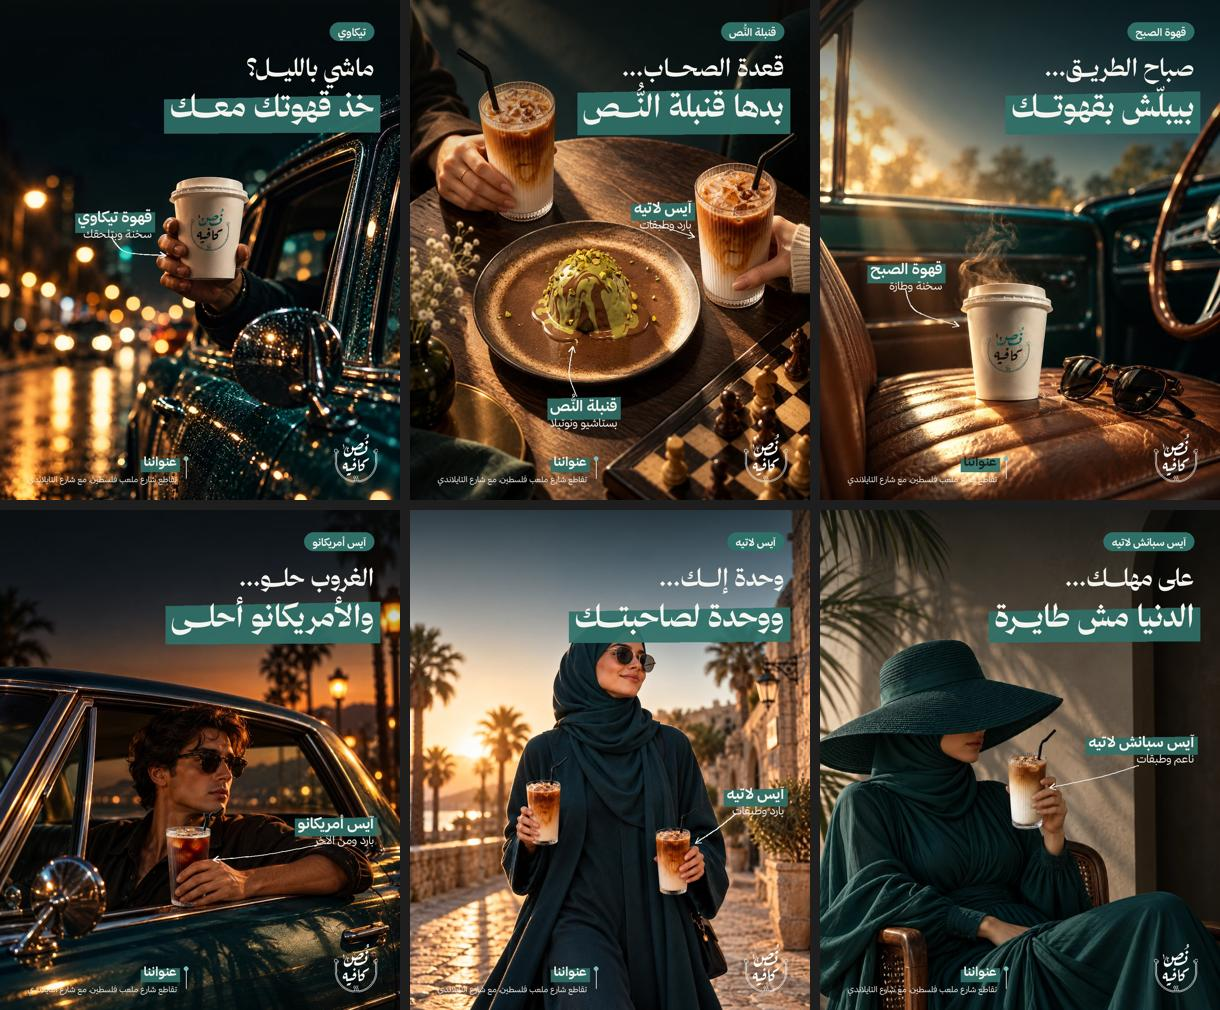
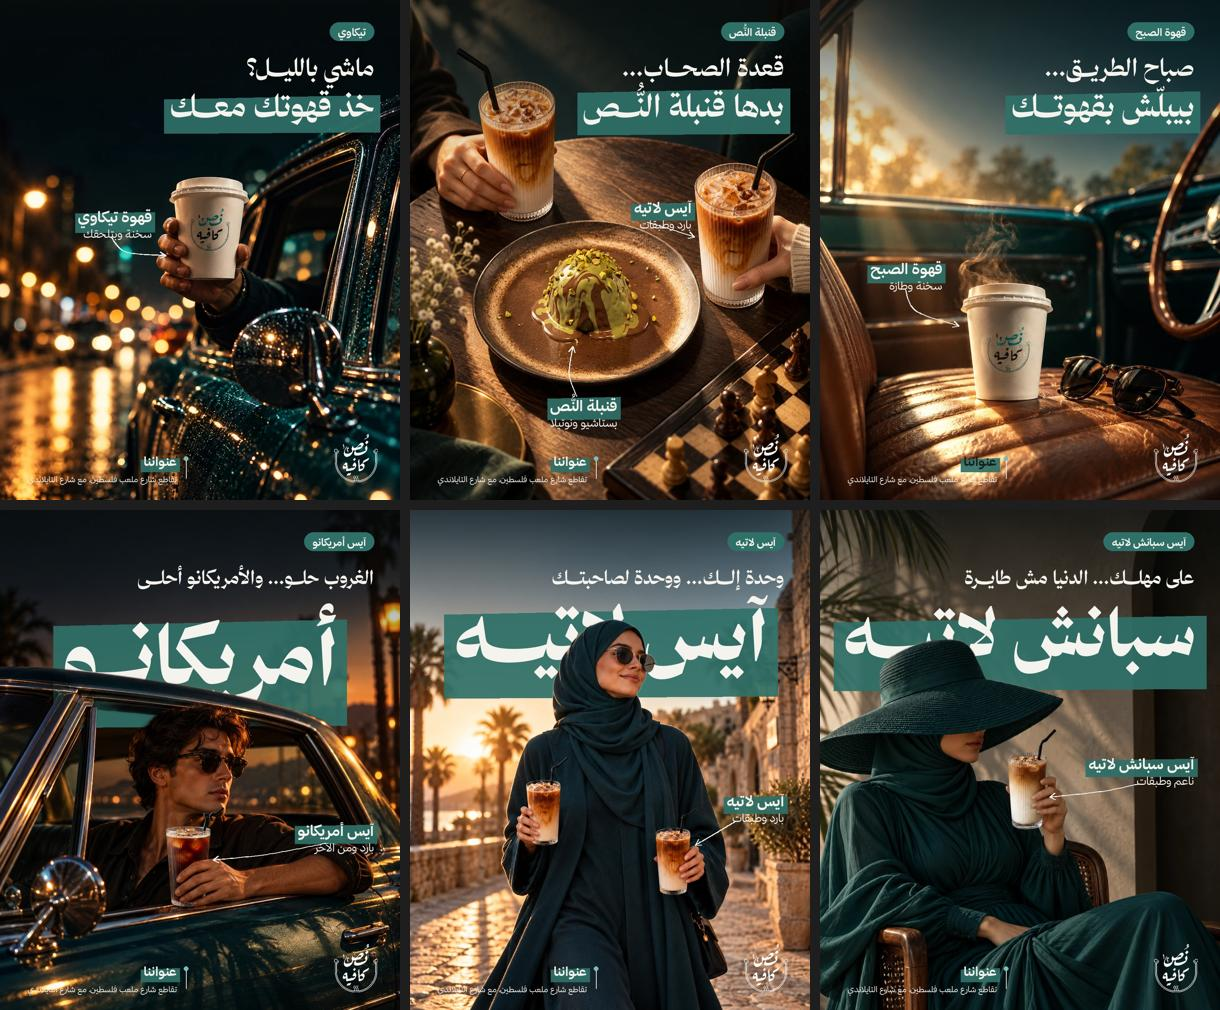
Product intro posts on owner scenes; text-behind-subject depth on 3
Claude-Session: https://claude.ai/code/session_015dwSS3fWoFBppmEP84oyNx

diff --git a/tools/intro_depth.py b/tools/intro_depth.py
@@ -1,0 +1,33 @@
+src=open('/tmp/claude-0/-home-user-nusscafee/f7fad810-a083-54af-b56f-880f141af58a/scratchpad/pcombo.py').read()
+exec(src[:src.index('C=[\n')])
+O=S+'out/depth/'; os.makedirs(O,exist_ok=True)
+def pill(img,t):
+    d=ImageDraw.Draw(img); f=SB(28); w=tw(d,t,f); XR=1010
+    d.rounded_rectangle([XR-w-44,60,XR,110],radius=25,fill=TEAL); d.text((XR-22,97),t,font=f,fill=WHITE,direction='rtl',anchor='rs')
+def giant(img,t,y,size):
+    d=ImageDraw.Draw(img); f=DBk(size)
+    while tw(d,t,f)>980: f=DBk(f.size-6)
+    w=tw(d,t,f); xr=W/2+w/2
+    hl(img,d,xr,y,t,f,pad=(26,6),skew=12); d=ImageDraw.Draw(img); d.text((xr,y),t,font=f,fill=WHITE,direction='rtl',anchor='rs')
+P=[
+ (13,'o5','آيس لاتيه','وحدة إلـــك... ووحدة لصاحبتـــك','آيس لاتيـــه',405,200,
+  [(1010,800,'آيس لاتيه','بارد وطبقات',[(880,840),(830,870),(770,905)])],'وحدة إلك ووحدة لصاحبتك… هيك الصحبة 🤍','#آيس_لاتيه'),
+ (14,'o6','آيس سبانش لاتيه','على مهلـــك... الدنيا مش طايـــرة','سبانش لاتيـــه',395,185,
+  [(1010,700,'آيس سبانش لاتيه','ناعم وطبقات',[(860,740),(760,760),(620,775)])],'ناعم من برّا، وقلبه إسبريسو… على مهلك 🤎','#سبانش_لاتيه'),
+ (12,'o4','آيس أمريكانو','الغروب حلـــو... والأمريكانو أحلـــى','أمريكانـــو',470,220,
+  [(1010,880,'آيس أمريكانو','بارد ومن الآخر',[(880,900),(720,930),(575,945)])],'بارد، صريح، ومن الآخر… متل الغروب 🌅','#آيس_أمريكانو'),
+]
+caps=[]
+for i,name,pl,l1,gw,gy,gs,labs,cap,tag in P:
+    base=cover(Image.open(S+f'owner/o{i}.png').convert('RGB')); im=topdark(base,520,180)
+    fg=im.copy(); mask=cover(Image.open(S+f'owner/m{i}.png').convert('L')).filter(ImageFilter.GaussianBlur(1.2))
+    CUR[0]=im.copy()
+    pill(im,pl); d=ImageDraw.Draw(im); T(d,1010,200,l1,DB(52),WHITE)
+    giant(im,gw,gy,gs)
+    im.paste(fg,(0,0),mask)                     # subject in front of the text
+    for lab in labs: mlabel(im,*lab)
+    footer_c(im); im.convert('RGB').save(O+name+'.jpg',quality=95); caps.append((name,cap,tag))
+sh=Image.new('RGB',(3*400+20,500),(30,30,30))
+for k,(n,_,_) in enumerate(caps): sh.paste(Image.open(O+n+'.jpg').resize((400,500)),(k*410,0))
+sh.save(O+'preview.jpg')
+import json; json.dump(caps,open(O+'caps.json','w'),ensure_ascii=False); print('ok')
